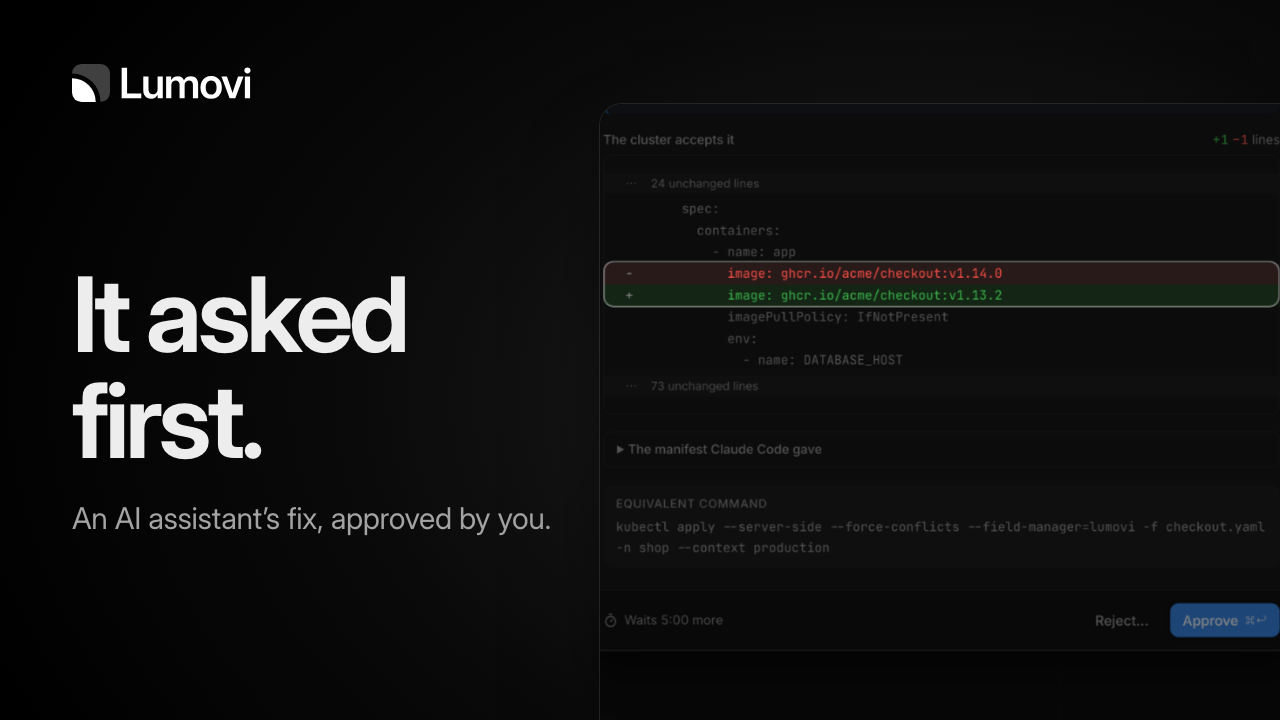
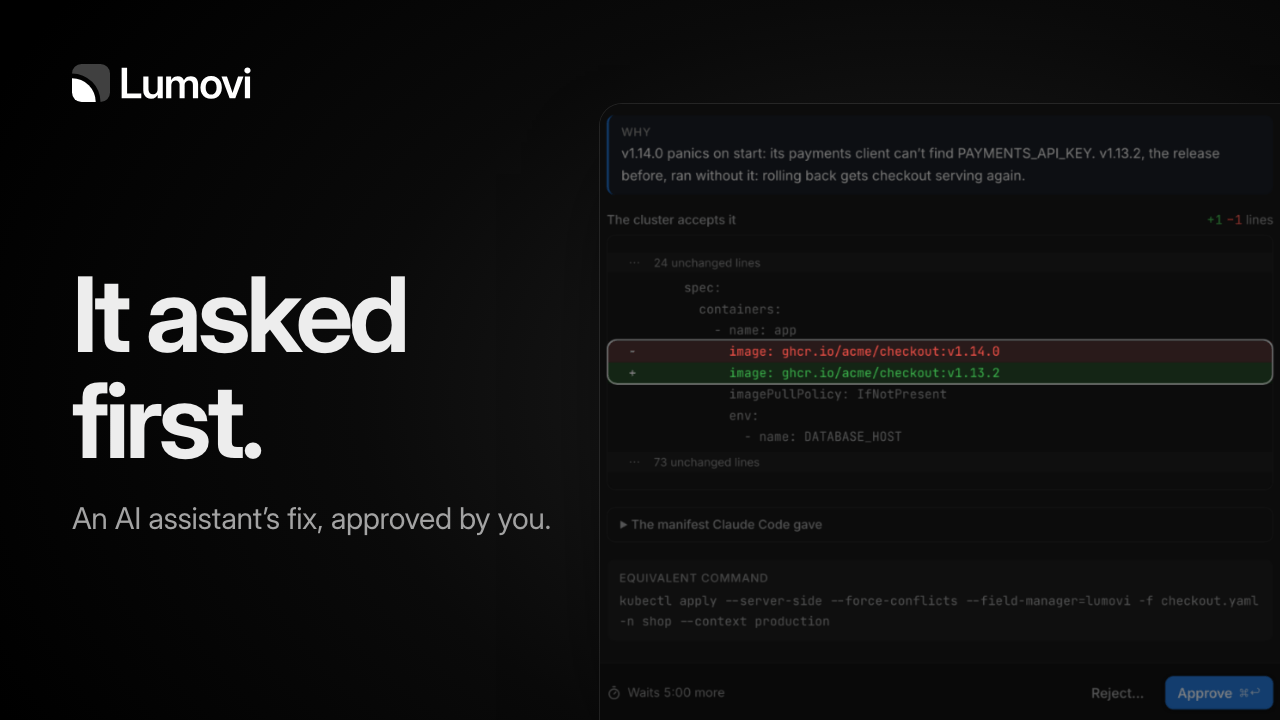
feat(social): the approval and tour thumbnails show 1.17.0
The approval thumbnail starts at the reason the assistant gives, so the
change's box clears both sides. The tour gets a thumbnail of its own:
Command K, open over the overview.

Fixes LMV-137

diff --git a/src/launch.ts b/src/launch.ts
@@ -62,9 +62,9 @@ export const videos: Video[] = [
     id: 'approval',
     title: ['It asked first.'],
     lead: 'An AI assistant’s fix, approved by you.',
-    // The change, red and green, and the Approve button under it.
+    // Why it asks, the change in red and green, and the Approve button under it.
     picture: { second: 16.6 },
-    crop: { x: 568, y: 240, width: 780, height: 706 },
+    crop: { x: 564, y: 146, width: 792, height: 717 },
   },
   {
     id: 'platform',
@@ -80,6 +80,14 @@ export const videos: Video[] = [
     // The route, and the service it leads to with no pods: the line between them is amber.
     picture: { second: 19 },
     crop: { x: 677, y: 186, width: 560, height: 507 },
+  },
+  {
+    id: 'tour',
+    title: ['A tour of', 'the whole app.'],
+    lead: 'Nine minutes, one feature at a time.',
+    // Command K, open over the overview: the list of everywhere it goes.
+    picture: { second: 100 },
+    crop: { x: 668, y: 259, width: 584, height: 529 },
   },
 ]
 
